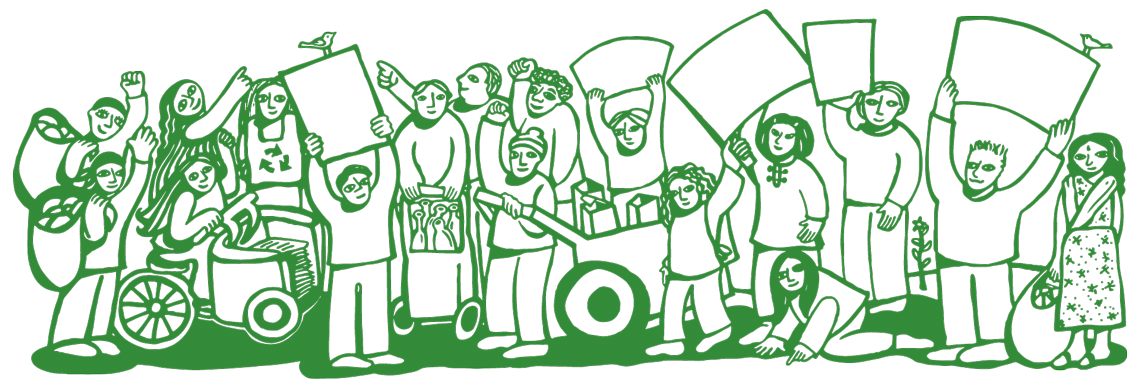
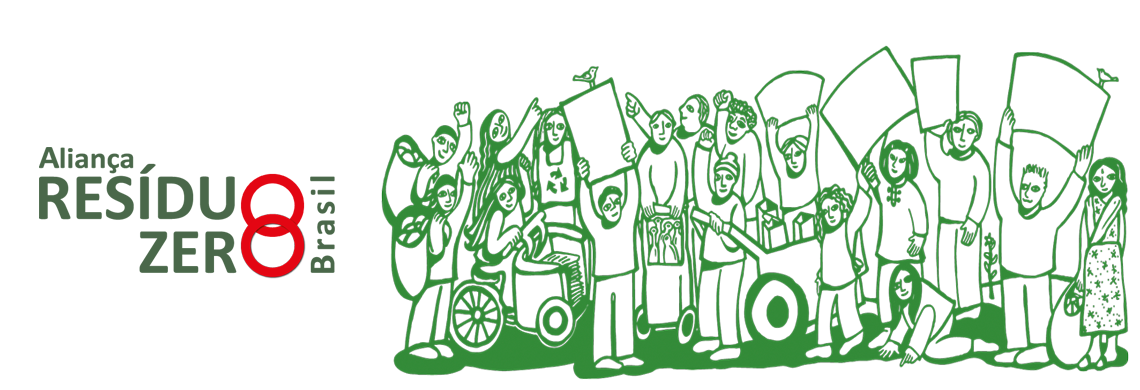
issue #27

diff --git a/assets/css/style.css b/assets/css/style.css
@@ -5,8 +5,8 @@ Description: Odin main stylesheet.
 /*responsive menu */
 .tinynav { display: none }
 @media screen and (max-width: 600px) {
-    .js .tinynav { display: block }
-    .js #nav { display: none }
+    .tinynav { display: block }
+    #nav { display: none }
     ul.navbar-nav{
     	display: none;
     }
@@ -53,6 +53,10 @@ h1, h2, h3, h4, h5 {
 	padding-bottom: 20px;
 }
 /* Header */
+.logo-interna{
+	display: inline-block;
+	float:left;
+}
 .bg-menu {
 	background-color: #496849;
 	height: 55px;
@@ -93,6 +97,13 @@ h1, h2, h3, h4, h5 {
 body.logged-in .bg-menu {
 	margin-top: 30px;
 }
+body.page-template-page-embed .bg-menu {
+	margin-top:0;
+}
+body.page-template-page-embed #header{
+	position: absolute;
+	top:0;
+}
 h1.site-title {
 	display: block;
 	font-weight: bolder;
@@ -115,7 +126,7 @@ h1.site-title {
 	cursor: pointer;
 	float: right;
 	margin-bottom: 3px;
-	margin-top: -5px;
+	margin-top: 80px;
 	padding: 3px 30px 35px 30px;
 	text-transform: uppercase;
 }
@@ -615,8 +626,7 @@ body.single .boas-praticas .entry-title {
 	width: 90%;
 }
 .sub-footer.participe h1.site-title {
-	font-weight: 300;
-	font-family: 'Lato',sans-serif;
+	font-weight: 500;
 	margin-top: 30px;
 }
 .sub-footer.participe .agenda {
@@ -630,8 +640,6 @@ body.single .boas-praticas .entry-title {
 }
 .sub-footer.participe .agenda h3 {
 	margin-bottom: 5px !important;
-	font-weight: 300;
-	font-family: 'Lato',sans-serif;
 }
 .sub-footer.participe .agenda span {
 	display: block;
@@ -832,12 +840,11 @@ section#novidades{
 	width:100%;
 	clear: both;
 }
-.page-template-page-home-alternativa .noticias .thumb {
-	max-height: 180px;
-	overflow: hidden;
-}
 .page-template-page-home-alternativa .noticias .fadein{
 	display: none !important;
+}
+.page-template-page-home-alternativa .noticias .each .mais{
+
 }
 /* archive agenda */
 .each.archive-agenda span.dia-mes{
@@ -984,22 +991,6 @@ body.post-type-archive-links{
 	background-size: auto 100%;
 	margin-bottom: 30px;
 	min-height: 300px;
-}
-/* Contato */
-.contato {
-	background-color: #FFF;
-	margin: 0 auto 30px;
-	max-width: 700px;
-	padding: 0 30px;
-}
-.contato input, .contato textarea {
-	background-color: #F1F1F1;
-	border: none;
-	padding: 7px 10px;
-	width: 100%;
-}
-.contato input[type="submit"] {
-	width: auto;
 }
 @media screen and (max-width: 990px) {
 	.noticias .each{

diff --git a/header.php b/header.php
@@ -26,7 +26,12 @@
 	<div class="col-md-12 bg-menu"></div>
 
 	<div class="container">
-		<header id="header" role="banner">
+		<?php $class = '';?>
+		<?php if(is_page_template('page-embed.php')): ?>
+		    <?php $class = 'container';?>
+		    <base target="_parent" />
+	    <?php endif;?>
+		<header id="header" role="banner" class="<?php echo $class;?>">
 
 			<nav id="main-navigation" class="navbar navbar-top" role="navigation">
 				<a class="assistive-text" href="#content" title="<?php esc_attr_e( 'Skip to content', 'odin' ); ?>"><?php _e( 'Skip to content', 'odin' ); ?></a>
@@ -39,7 +44,9 @@
 				</div>
 
 				<div class="collapse navbar-collapse navbar-main-navigation">
+
 					<?php
+					if(!is_page_template('page-embed.php' )):
 						wp_nav_menu(
 							array(
 								'theme_location' => 'main-menu',
@@ -50,12 +57,27 @@
 								'walker'         => new Odin_Bootstrap_Nav_Walker()
 							)
 						);
+					else :
+						wp_nav_menu(
+							array(
+								'theme_location' => 'main-menu-embed',
+								'depth'          => -1,
+								'container'      => false,
+								'menu_class'     => 'nav navbar-nav',
+								'fallback_cb'    => 'Odin_Bootstrap_Nav_Walker::fallback',
+								'walker'         => new Odin_Bootstrap_Nav_Walker()
+							)
+						);
+
+					endif;
 					?>
 
 					<form method="get" class="navbar-form navbar-right" action="<?php echo esc_url( home_url( '/' ) ); ?>" role="search">
 						<label for="navbar-search" class="sr-only"><?php _e( 'Search:', 'odin' ); ?></label>
 						<div class="form-group">
-							<input type="search" class="form-control" name="s" id="navbar-search" />
+						    <?php $attrs = '';?>
+							<?php if(is_page_template('page-embed.php')) $attrs = 'placeholder="'.__('Pesquisar no site principal','odin').'"';?>
+							<input type="search" class="form-control" name="s" id="navbar-search" <?php echo $attrs;?> />
 						</div>
 						<button type="submit" class="btn btn-default"><?php _e( 'Search', 'odin' ); ?></button>
 					</form>
@@ -79,15 +101,17 @@
 				<h1 class="site-title"><a href="<?php echo home_url(); ?>" title="<?php echo esc_attr( get_bloginfo( 'name', 'display' ) ); ?>" rel="home"><?php bloginfo( 'name' ); ?></a></h1>
 
 			<?php else : ?>
-
+			<?php if(!is_page_template('page-embed.php')):?>
 				</div><!-- .container -->
 
 					<div class="sub-header">
 
 						<div class="container">
 
-							<a href="<?php echo home_url(); ?>" title="<?php echo esc_attr( get_bloginfo( 'name', 'display' ) ); ?>" rel="home"><img src="<?php echo get_template_directory_uri(); ?>/assets/images/logo-internas.jpg" alt="<?php bloginfo( 'name' ); ?>"></a>
-							<a class="click conceito" id="conceito-click" data-open="false"><?php _e( 'Entenda o Conceito', 'odin' ); ?></a>
+							<a href="<?php echo home_url(); ?>" title="<?php echo esc_attr( get_bloginfo( 'name', 'display' ) ); ?>" rel="home" class="logo-interna"><img src="<?php echo get_template_directory_uri(); ?>/assets/images/logo-internas.png" alt="<?php bloginfo( 'name' ); ?>"></a>
+							<?php if(!is_page_template('page-embed.php')): ?>
+							    <a class="click conceito" id="conceito-click" data-open="false"><?php _e( 'Entenda o Conceito', 'odin' ); ?></a>
+			                <?php endif;?>
 			                <?php $conceito = get_page_by_path( 'o-conceito', OBJECT, 'page' ); ?>
 			                <?php if($conceito):?>
 			                    <div class="col-md-12" id="conceito-content">
@@ -102,10 +126,9 @@
 						</div><!-- .container -->
 
 					</div><!-- sub-header -->
-
 				<div class="container">
-
-			<?php endif ?>
+			<?php endif;?>
+			<?php endif; ?>
 
 
 

diff --git a/functions.php b/functions.php
@@ -63,6 +63,7 @@ if ( ! function_exists( 'odin_setup_features' ) ) {
 		register_nav_menus(
 			array(
 				'main-menu' => __( 'Main Menu', 'odin' ),
+				'main-menu-embed' => __( 'Main Menu Comunidade', 'odin' ),
 				'about-menu' => __( 'About Menu', 'odin' )
 			)
 		);

diff --git a/page-embed.php b/page-embed.php
@@ -1,0 +1,13 @@
+<?php
+/*
+ * Template Name: Header Iframe
+*/
+add_filter('show_admin_bar', '__return_false');
+get_header();
+?>
+		</div><!-- #main -->
+	</div><!-- .container -->
+	<?php wp_footer(); ?>
+</body>
+</html>
+
